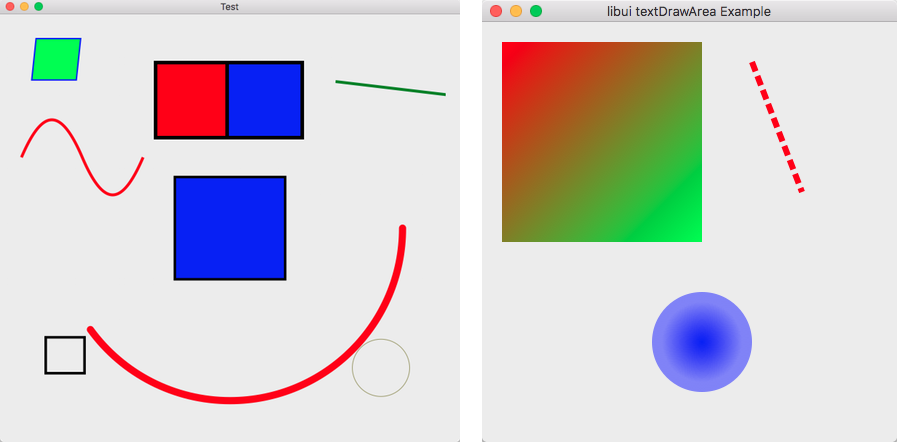
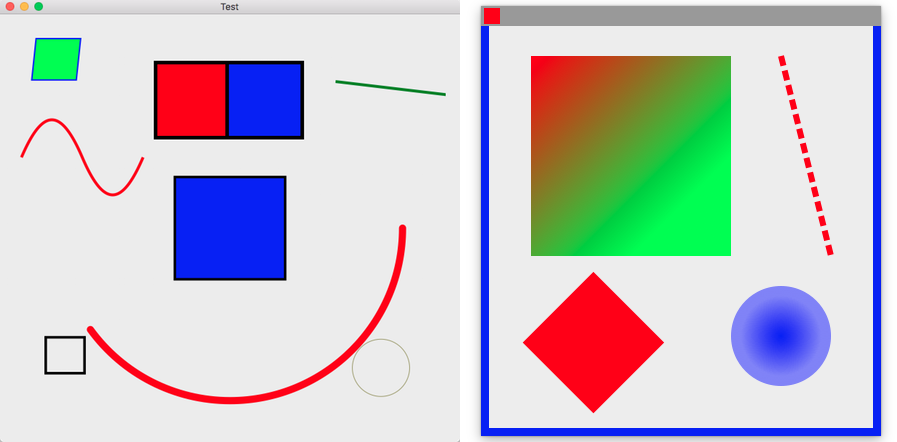
Borderless + area example

Changed region(s): [[0.5307, 0.0, 1.0, 1.0]]

diff --git a/examples/area-adv.js b/examples/area-adv.js
@@ -2,9 +2,15 @@
 /* eslint-disable unicorn/number-literal-case */
 const libui = require('..');
 
+const RESIZE_HANDLE_WIDTH = 8;
+
 const redBrush = new libui.DrawBrush();
 redBrush.type = libui.brushType.solid;
 redBrush.color = new libui.Color(1, 0, 0, 1);
+
+const greyBrush = new libui.DrawBrush();
+greyBrush.type = libui.brushType.solid;
+greyBrush.color = new libui.Color(0.6, 0.6, 0.6, 1);
 
 const blueBrush = new libui.DrawBrush();
 blueBrush.type = libui.brushType.solid;
@@ -17,14 +23,14 @@ console.log(dashedStroke.dashes);
 
 const linearBrush = new libui.DrawBrush();
 linearBrush.type = libui.brushType.linearGradient;
-linearBrush.start = new libui.Point(0, 0);
+linearBrush.start = new libui.Point(50, 50);
 linearBrush.end = new libui.Point(200, 200);
 linearBrush.setStops([new libui.BrushGradientStop(0, new libui.Color(1, 0, 0, 1)), new libui.BrushGradientStop(1, new libui.Color(0, 1, 0, 1))]);
 
 const radialBrush = new libui.DrawBrush();
 radialBrush.type = libui.brushType.radialGradient;
-radialBrush.start = new libui.Point(250, 300);
-radialBrush.end = new libui.Point(250, 300);
+radialBrush.start = new libui.Point(300, 330);
+radialBrush.end = new libui.Point(300, 330);
 radialBrush.outerRadius = 40;
 radialBrush.setStops([new libui.BrushGradientStop(0, new libui.Color(0, 0, 1, 1)), new libui.BrushGradientStop(1, new libui.Color(0.5, 0.5, 1, 1))]);
 console.log(radialBrush.getStops());
@@ -33,12 +39,15 @@ const matrix = new libui.UiDrawMatrix();
 matrix.setIdentity();
 matrix.rotate(70, 280, (Math.PI / 180) * 45)
 
-const onMoveHandle = (x, y) => (330 <= x && x <= 350 && 0 <= y && y <= 20);
-const onResizeHandle = (x, y, p) => (0 <= x && x <= p.getAreaWidth() && (p.getAreaHeight() - 20) <= y && y <= p.getAreaHeight());
+const onCloseHandle = (x, y, p) => (3 <= x && x <= 19 && 2 <= y && y <= 18);
+const onMoveHandle = (x, y, p) => (0 <= x && x <= p.getAreaWidth() && 0 <= y && y <= 20);
+const onResizeBottomHandle = (x, y, p) => ((p.getAreaHeight() - RESIZE_HANDLE_WIDTH) <= y && y <= p.getAreaHeight());
+const onResizeRightHandle = (x, y, p) => (p.getAreaWidth() - RESIZE_HANDLE_WIDTH <= x && x <= p.getAreaWidth() && 20 < y);
+const onResizeLeftHandle = (x, y, p) => (0 <= x && x <= RESIZE_HANDLE_WIDTH && 20 < y);
 
 function handlerDraw(area, p) {
 	let path = new libui.UiDrawPath(libui.fillMode.winding);
-	path.addRectangle(0, 0, 200, 200);
+	path.addRectangle(50, 50, 200, 200);
 	path.end();
 	p.getContext().fill(path, linearBrush);
 	path.freePath();
@@ -47,23 +56,29 @@ function handlerDraw(area, p) {
 
 	// Circle
 	path = new libui.UiDrawPath(libui.fillMode.winding);
-	path.newFigure(0, 0);
-	path.arcTo(250, 300, 50, 0, 2 * Math.PI, false);
+	path.newFigureWithArc(300, 330, 50, 0, 2 * Math.PI, false);
 	path.end();
 	p.getContext().fill(path, radialBrush);
 	path.freePath();
 
 	// Dashed line
 	path = new libui.UiDrawPath(libui.fillMode.winding);
-	path.newFigure(250, 20);
-	path.lineTo(300, 150);
+	path.newFigure(300, 50);
+	path.lineTo(350, 250);
 	path.end();
 	p.getContext().stroke(path, redBrush, dashedStroke);
 	path.freePath();
 
 	// Move handle
 	path = new libui.UiDrawPath(libui.fillMode.winding);
-	path.addRectangle(330, 0, 20, 20);
+	path.addRectangle(0, 0, p.getAreaWidth(), 20);
+	path.end();
+	p.getContext().fill(path, greyBrush);
+	path.freePath();
+
+	// Close button
+	path = new libui.UiDrawPath(libui.fillMode.winding);
+	path.addRectangle(3, 2, 16, 16);
 	path.end();
 	p.getContext().fill(path, redBrush);
 	path.freePath();
@@ -72,7 +87,7 @@ function handlerDraw(area, p) {
 	// Rotated square
 	path = new libui.UiDrawPath(libui.fillMode.winding);
 	p.getContext().transform(matrix);
-	path.addRectangle(20, 230, 100, 100);
+	path.addRectangle(90, 240, 100, 100);
 	path.end();
 	p.getContext().fill(path, redBrush);
 	path.freePath();
@@ -80,7 +95,12 @@ function handlerDraw(area, p) {
 
 	// Resize handle
 	path = new libui.UiDrawPath(libui.fillMode.winding);
-	path.addRectangle(0, p.getAreaHeight() - 20, p.getAreaWidth(), 20);
+	// bottom
+	path.addRectangle(0, p.getAreaHeight() - RESIZE_HANDLE_WIDTH, p.getAreaWidth(), RESIZE_HANDLE_WIDTH);
+	// right
+	path.addRectangle(p.getAreaWidth() - RESIZE_HANDLE_WIDTH, 20, RESIZE_HANDLE_WIDTH, p.getAreaHeight());
+	// left
+	path.addRectangle(0, 20, RESIZE_HANDLE_WIDTH, p.getAreaHeight());
 	path.end();
 	p.getContext().fill(path, blueBrush);
 	path.freePath();
@@ -89,22 +109,38 @@ function handlerDraw(area, p) {
 function mouseEvent(area, evt) {
 	const x = evt.getX(), y = evt.getY();
 
-	if(evt.getDown() === 1) {
-		if (onMoveHandle(x, y)) {
+	if (evt.getDown() === 1) {
+		if (onCloseHandle(x, y, evt)) {
+			mainwin.close();
+			libui.stopLoop();
+		} else if (onMoveHandle(x, y, evt)) {
 			area.beginWindowMove();
-		}
-
-		if (onResizeHandle(x, y, evt)) {
-			area.beginWindowResize(libui.resizeEdge.bottom);
+		} else {
+			const left = onResizeLeftHandle(x, y, evt);
+			const right = onResizeRightHandle(x, y, evt);
+			const bottom = onResizeBottomHandle(x, y, evt);
+			if (bottom && right) {
+				area.beginWindowResize(libui.resizeEdge.bottomRight);
+			} else if (bottom && left) {
+				area.beginWindowResize(libui.resizeEdge.bottomLeft);
+			} else if (right) {
+				area.beginWindowResize(libui.resizeEdge.right);
+			} else if (left) {
+				area.beginWindowResize(libui.resizeEdge.left);
+			} else if (bottom) {
+				area.beginWindowResize(libui.resizeEdge.bottom);
+			}
 		}
 	}
 }
 
 function noop() {}
 
+let mainwin;
+
 function main() {
-	const mainwin = new libui.UiWindow('libui textDrawArea Example', 400, 430, 1);
-	mainwin.margined = true;
+	mainwin = new libui.UiWindow('libui textDrawArea Example', 400, 430, 1);
+	mainwin.borderless = true;
 	mainwin.onClosing(() => {
 		mainwin.close();
 		libui.stopLoop();

diff --git a/src/UiArea/UiAreaDrawParams.cc b/src/UiArea/UiAreaDrawParams.cc
@@ -9,9 +9,6 @@ UiDrawContext *UiAreaDrawParams::getContext() {
 	return new UiDrawContext(p->Context);
 }
 
-// TODO: make readony properties
-//
-
 double UiAreaDrawParams::getAreaWidth() {
 	return p->AreaWidth;
 }
@@ -38,6 +35,13 @@ double UiAreaDrawParams::getClipHeight() {
 
 NBIND_CLASS(UiAreaDrawParams) {
 	construct<uiAreaDrawParams *>();
+	getter(getContext);
+	getter(getAreaWidth);
+	getter(getAreaHeight);
+	getter(getClipX);
+	getter(getClipY);
+	getter(getClipWidth);
+	getter(getClipHeight);
 	method(getContext);
 	method(getAreaWidth);
 	method(getAreaHeight);
